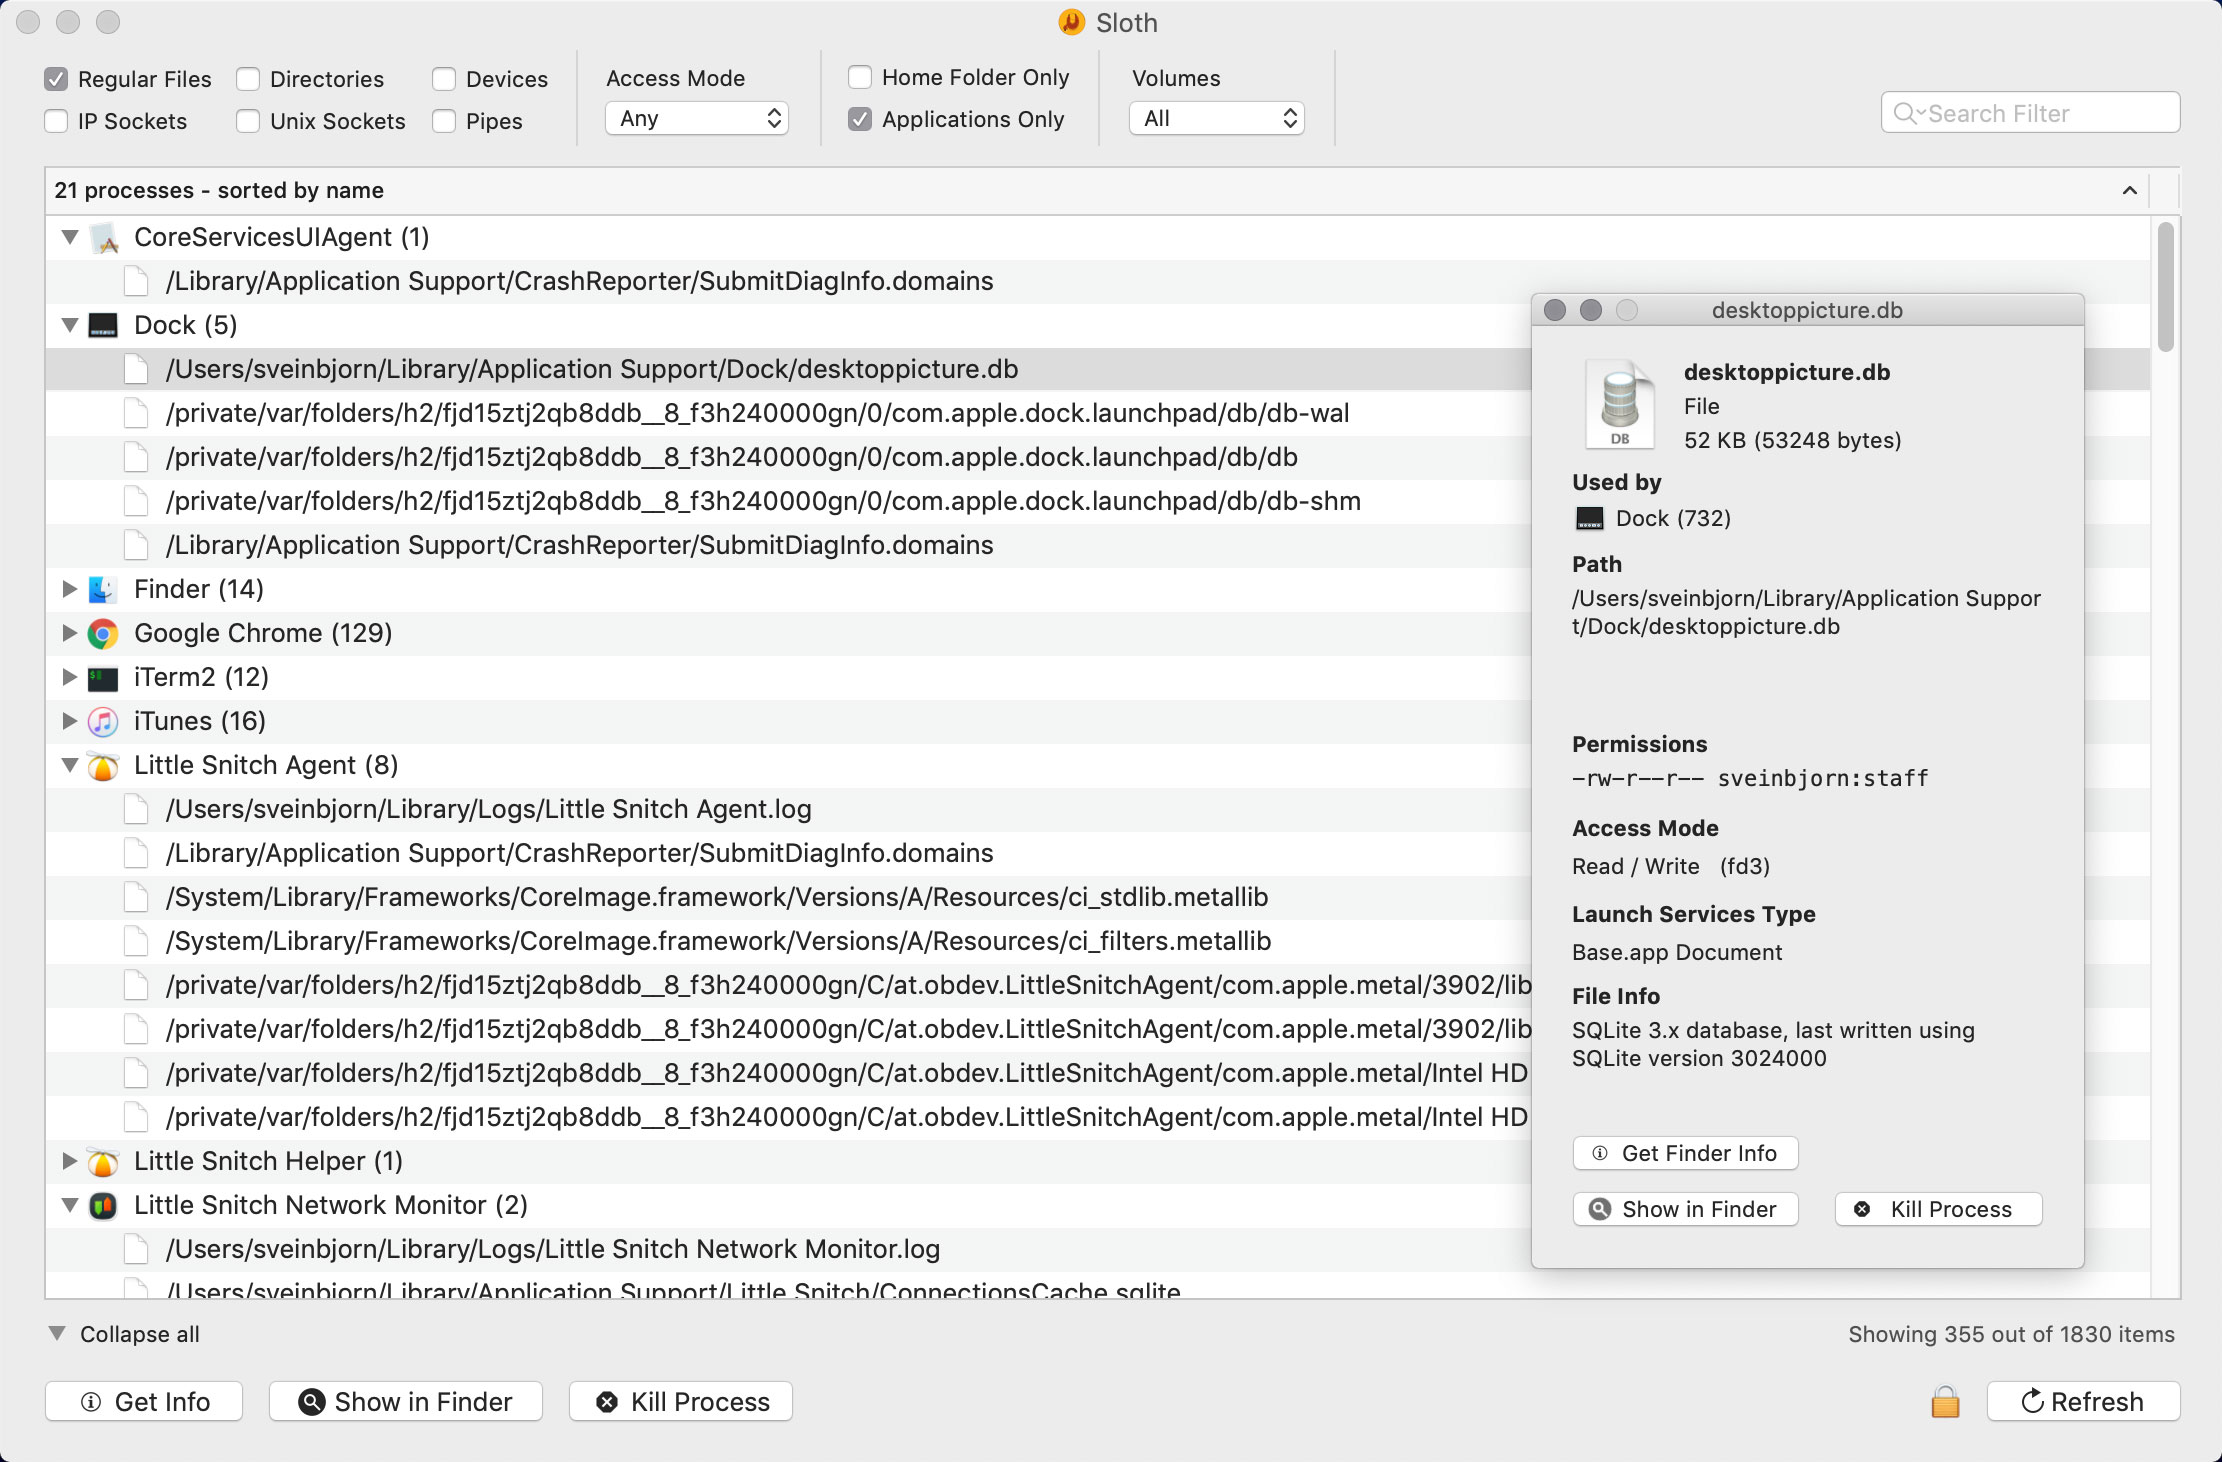
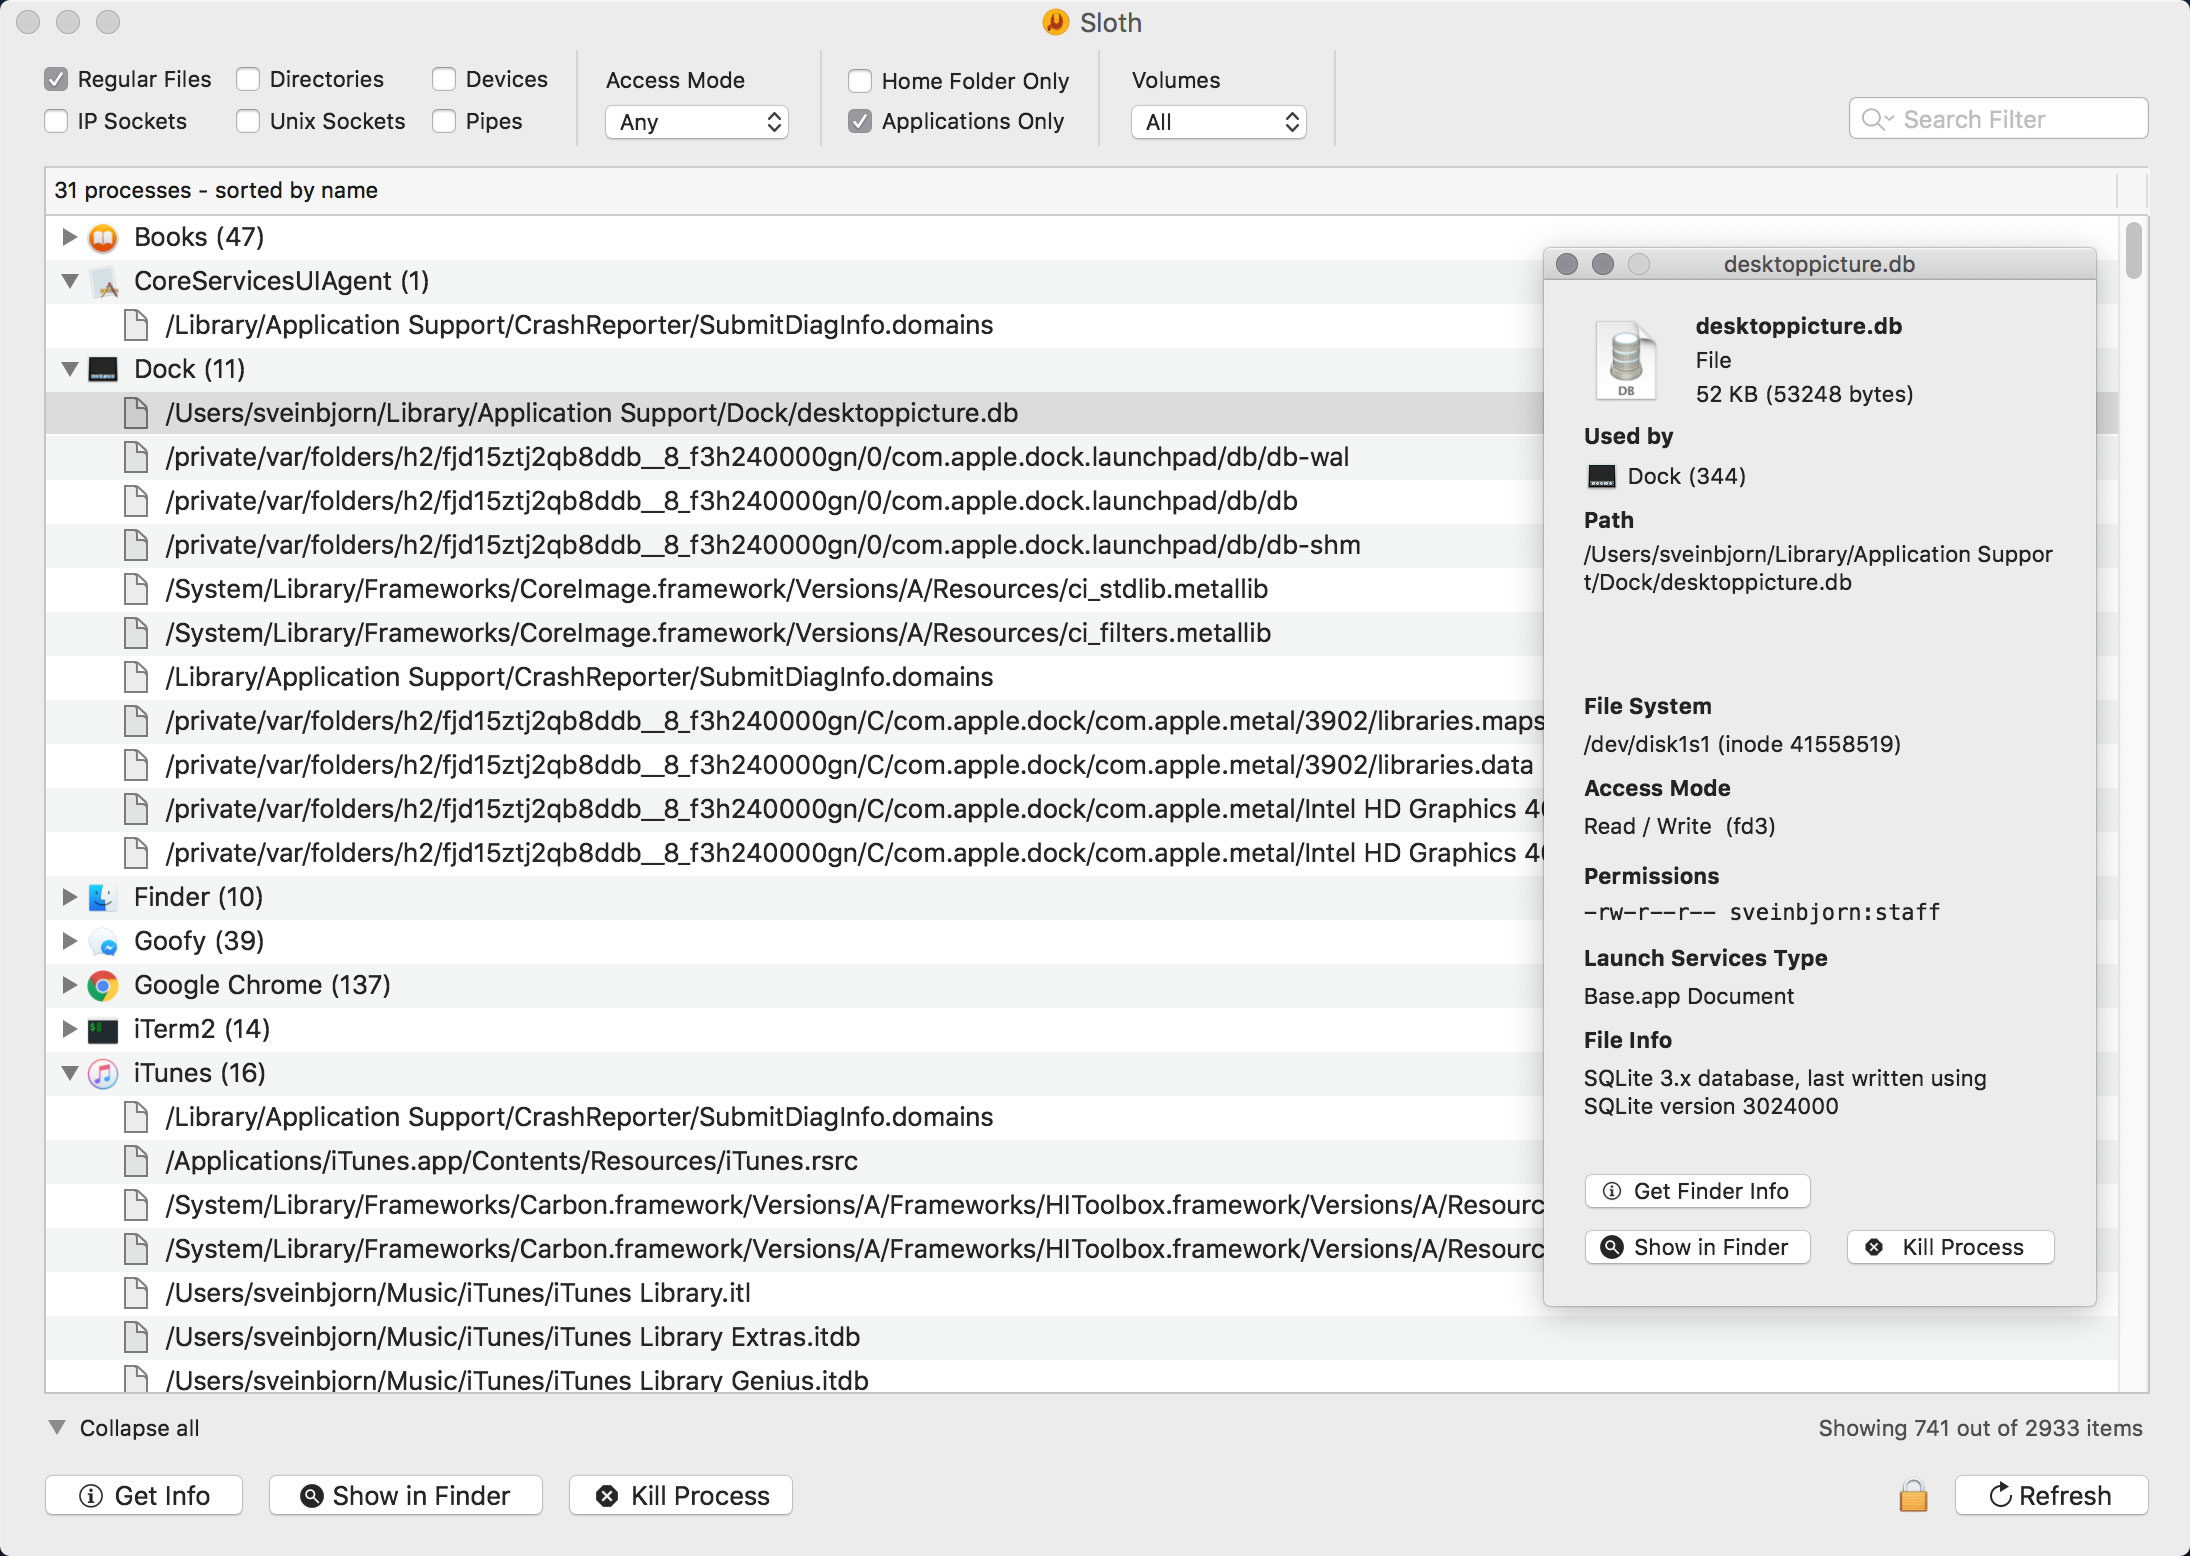
Now showing multiple endpoints for sockets & endpoint for pipes (when lookup succeeds). Also, releasing 2.8, updated appcast, verison, docs, links etc.

diff --git a/source/SlothController.m b/source/SlothController.m
@@ -531,32 +531,34 @@
         *numFiles += [process[@"children"] count];
         
         // Iterate over the process's children, map sockets and pipes to their endpoint
-//        for (NSMutableDictionary *f in process[@"children"]) {
-//            if (![f[@"type"] isEqualToString:@"Unix Domain Socket"] && ![f[@"type"] isEqualToString:@"Pipe"]) {
-//                continue;
-//            }
-//            // Pipes and sockets should have names in the format "->[NAME]"
-//            if ([f[@"name"] length] < 3) {
-//                continue;
-//            }
-//            
-//            NSString *name = [f[@"name"] substringFromIndex:2];
-//            
-//            // If we know which process owns the other end of the pipe/socket
-//            // Needs to run with root privileges for succesful lookup of the
-//            // endpoints of system process pipes/sockets such as syslogd
-//            if (devCharCodeMap[name]) {
-//                if ([devCharCodeMap[name] count] > 1) {
-//                    NSLog(@"%@", [devCharCodeMap[name] description]);
-//                }
-//                NSDictionary *endPoint = devCharCodeMap[name][0];
-//                f[@"displayname"] = [NSString stringWithFormat:@"%@ (%@)",
-//                                     f[@"displayname"], endPoint[@"pname"]];
-//                f[@"endpointname"] = endPoint[@"pname"];
-//                f[@"endpointpid"] = endPoint[@"pid"];
-//                f[@"endpointimg"] = endPoint[@"pimage"];
-//            }
-//        }
+        for (NSMutableDictionary *f in process[@"children"]) {
+            if (![f[@"type"] isEqualToString:@"Unix Domain Socket"] && ![f[@"type"] isEqualToString:@"Pipe"]) {
+                continue;
+            }
+            // Identifiable pipes and sockets should have names in the format "->[NAME]"
+            if ([f[@"name"] length] < 3) {
+                continue;
+            }
+            
+            NSString *name = [f[@"name"] substringFromIndex:2];
+            
+            // If we know which process owns the other end of the pipe/socket
+            // Needs to run with root privileges for succesful lookup of the
+            // endpoints of system process pipes/sockets such as syslogd
+            if (devCharCodeMap[name]) {
+                NSArray *endPoints = devCharCodeMap[name];
+                NSMutableArray *epItems = [NSMutableArray new];
+                NSDictionary *first = devCharCodeMap[name][0];
+                f[@"displayname"] = [NSString stringWithFormat:@"%@ (%@%@)",
+                                     f[@"displayname"], first[@"pname"],
+                                     [endPoints count] > 1 ? @" ..." : @""];
+                for (NSDictionary *e in endPoints) {
+                    NSString *i = [NSString stringWithFormat:@"%@ (%@)", e[@"pname"], e[@"pid"]];
+                    [epItems addObject:i];
+                }
+                f[@"endpoints"] = epItems;
+            }
+        }
     }
     
     return processList;

diff --git a/source/InfoPanelController.m b/source/InfoPanelController.m
@@ -141,9 +141,9 @@
     
     // Show endpoints for pipes and unix domain sockets
     self.pathLabelTextField.stringValue = isPipeOrSocket ? @"Connected to" : @"Path";
-    if (isPipeOrSocket && itemDict[@"endpointname"]) {
-        NSString *epString = [NSString stringWithFormat:@"%@ (%@)", itemDict[@"endpointname"], itemDict[@"endpointpid"]];
-        [self.pathTextField setStringValue:epString];
+    if (isPipeOrSocket && [itemDict[@"endpoints"] count]) {
+        NSString *eps = [itemDict[@"endpoints"] componentsJoinedByString:@"\n"];
+        [self.pathTextField setStringValue:eps];
     }
     
     // Icon

diff --git a/README.md b/README.md
@@ -15,11 +15,13 @@ Sloth is a Mac application that displays all open files and sockets in use by al
 
 Sloth is essentially a friendly, exploratory graphical user interface built on top of the  [`lsof`](https://en.wikipedia.org/wiki/Lsof) command line tool. The output of `lsof` is parsed and shown in a searchable, filterable outline view with all sorts of convenient additional functionality. Check out the screenshots below.
 
+<a href="https://www.paypal.com/cgi-bin/webscr?cmd=_s-xclick&hosted_button_id=BDT58J7HYKAEE"><img align="right" src="https://www.paypalobjects.com/WEBSCR-640-20110306-1/en_US/i/btn/btn_donate_LG.gif" ></a>
+
 Sloth is free, open source software and has been developed and maintained for a long time. If you find this program useful, please [make a donation](https://sveinbjorn.org/donations).
 
 ## Download
 
-*  **[⇩ Download Sloth 2.7](https://sveinbjorn.org/files/software/sloth.zip)** (~0.6 MB, Intel 64-bit, macOS 10.8 or later)
+*  **[⇩ Download Sloth 2.8](https://sveinbjorn.org/files/software/sloth.zip)** (~0.7 MB, Intel 64-bit, macOS 10.8 or later)
 
 Sloth can also be installed via [Homebrew](https://brew.sh):
 
@@ -34,6 +36,21 @@ $ brew cask install sloth
 <img src="resources/sloth_screenshot2.jpg" align="center" alt="Sloth Screenshot 2">
 
 ## Version history
+
+### 27/03/2019 - Version 2.8
+
+* New Dark Mode friendly template icons for Mojave
+* Multiple items can now be selected and copied
+* Info Panel now shows which processes are connected to each other via unix pipes & domain sockets
+* Info Panel now also shows file system info such as device name & inode
+* Cmd-L menu action to show selected item
+* Minor performance improvements
+* Sparkle update framework now has Mojave Dark Mode-compatible appearance
+* No longer shows hidden volumes in Volumes filter
+* Fixed issue with mangled process names
+* Fixed issue with pipe icon on non-retina displays
+* Fixed minor memory leak
+* More graceful error handling when file descriptor lookup fails in lsof
 
 ### 10/02/2019 - Version 2.7
 
@@ -205,4 +222,4 @@ WHETHER IN CONTRACT, STRICT LIABILITY, OR TORT (INCLUDING NEGLIGENCE OR OTHERWIS
 ARISING IN ANY WAY OUT OF THE USE OF THIS SOFTWARE, EVEN IF ADVISED OF THE
 POSSIBILITY OF SUCH DAMAGE.
 
-The Sloth icon is Copyright (C) Drífa Thoroddsen.
+The Sloth application icon is copyright (C) [Drífa Thoroddsen](https://drifaliftora.is).
